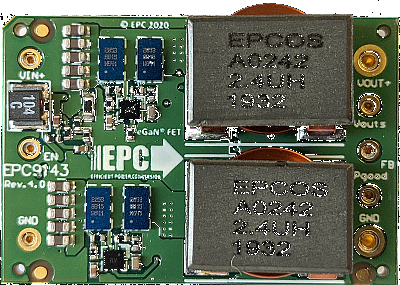
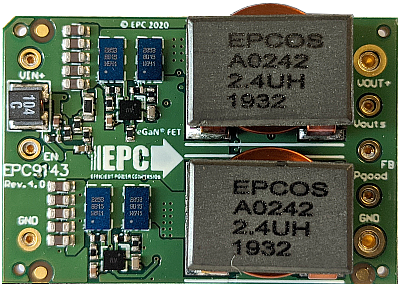
Updated readme file with link to Github Pages online documentation, added and optimized images used

diff --git a/README.md b/README.md
@@ -23,14 +23,14 @@
 ## Summary
 This code example demonstrates a closed loop voltage mode control implementation for dsPIC33CK. It has specifically been developed for the EPC9143 Rev4.0 1/16 brick converter.
 
-The board starts up the buck converter automatically when power is applied to the board, providing a regulated output voltage of 12 V at the output of the converter. The startup procedure is controlled and executed by the power controller state machine (PWRLIB_BUCK) and includes an configurable startup procedure with power-on delay, ramp up period and power good delay before dropping into constant regulation mode.
-An additional fault handler (FUNLIB_FAULT_HANDLER) shuts down the power supply if the input voltage is outside the defined range of 18V to 72.5V (UVLO/OVLO) or if the output voltage is more than 0.5V out of regulation for more than 10 milliseconds.
+The board starts up the buck converter automatically when power is applied to the board, providing a regulated output voltage of 12 V at the output of the converter. The startup procedure is controlled and executed by the power controller state machine and includes an configurable startup procedure with power-on delay, ramp up period and power good delay before dropping into constant regulation mode.
+An additional fault handler routine continuously monitors incoming ADC data and peripheral status bits and shuts down the power supply if the input voltage is outside the defined maximum range of 16.5 V to 62.5 V (UVLO/OVLO) or if the output voltage is more than 0.5 V out of regulation for more than 10 milliseconds.
 
 A single, high-speed type IV (4P4Z) voltage mode controller with enforced PWM steering is used to automatically create balanced phase currents in both phases of this interleaved converter. An underlying current balancing scheme compensates component tolerances and deviations over temperature. A built-in adaptive gain control algorithm stabilizes gain variations of the voltage loop controller during input- and output voltage transients, stabilizing cross-over frequency and output impedance, supporting control bandwidths of 25 kHz, for improved transient response, helping to minimize power distribution network (PDN) decoupling capacity.
 
 #### Product Features:
   - Input Voltage: 18 V to 61 V
-  - Output Voltage: 12 V DC (programmable from 5 V to 15.0 V)
+  - Output Voltage: 5 ... 15 V DC (12 V default setting)
   - Switching Frequency: 500 kHz
   - Control Frequency: 500 kHz
   - Cross-Over Frequency: ~25 kHz (depends on VIN and if AGC is on/off)
@@ -38,14 +38,24 @@ A single, high-speed type IV (4P4Z) voltage mode controller with enforced PWM st
   - Gain Margin: ~ 12 dB
 
 ## Related Documentation
+##### Firmware Documentation
+  - [EPC9143 Online Firmware Documentation](https://microchip-pic-avr-examples.github.io/epc9143-power-advanced-voltage-mode-control)
+
+##### Firmware Documentation
   - [EPC9143 300W 1/16th brick Power Module Reference Design Product Website](https://www.microchip.com/DevelopmentTools/ProductDetails/PartNO/EPC9143)
+  - [EPC9143 Reference Design Quick Start Guide (QSG)](https://epc-co.com/epc/documents/guides/EPC9143_qsg.pdf)
+  - [EPC9143 Reference Design Schematics](https://epc-co.com/epc/documents/schematics/EPC9143_Schematic.pdf)
+  - [EPC9531 Test Fixture Quick Start Guide (QSG)](https://epc-co.com/epc/documents/guides/EPC9531_qsg.pdf)
+  - [EPC9531 Test Fixture Schematics](https://epc-co.com/epc/documents/schematics/EPC9531_Schematic.pdf)
 
 ## Software Used 
   - [MPLAB® X IDE v5.40](https://www.microchip.com/mplabx-ide-windows-installer)
   - [MPLAB® XC16 Compiler v1.50](https://www.microchip.com/mplabxc16windows)
-  - [DCLD - Digital Control Library Designer v0.9.12.642](https://areiter128.github.io/DCLD/)
+  - [PowerSmart&trade; - Digital Control Library Designer, v0.9.12.642 (Pre-Release Version)](https://areiter128.github.io/DCLD/)
 
 ## Hardware Used
+The EPC9143 1/16th brick power module is best tested when plugged into EPC9531 test fixture. This test fixture also provides all required interfaces to program and debug the dsPIC33CK32MP102 DSC as well as test points and banana jack connectors for easy and safe handling of the kit during bench tests. The EPC9531 QSG provides detailed operating procedure instructions.
+
   - EPC9143: EPC9143 16th Brick Non-Isolated Step Down Converter, Revision 4.0
   - EPC9531: EPC9531 test fixture for EPC9143 16th brick reference design
 
@@ -58,21 +68,39 @@ A single, high-speed type IV (4P4Z) voltage mode controller with enforced PWM st
 </p>
 
 ## Device Support:
-The following Microchip devices are used on the EPC9143 reference design:
+Microchip devices used in this reference design:
   - [dsPIC33CK32MP102](https://www.microchip.com/dsPIC33CK32MP102)
   - [MCP6C02 Shunt Amplifier](https://www.microchip.com/MCP6C02)
 
+EPC devices used in this reference design
+  - [EPC2053: 100 V, 246 A Enhancement-Mode GaN Power Transistor](https://epc-co.com/epc/Products/eGaNFETsandICs/EPC2053.aspx)
+
 ## Setup
-The EPC9143 1/16th brick module is best tested plugged into EPC9531 test fixture. The EPC9531 QSG provides detailed operating procedure instructions. 
+The board comes programmed and ready to be used when unpacked. No reprogramming of the target device is required to operate the board unless features or settings such as the nominal output voltage or start-up timing need to be modified. 
 
-Available documents provided by EPC:
+<p>
+  <center>
+    <a href="https://www.microchip.com/EPC9143" rel="nofollow">
+      <img src="images/9531_9143_setup.png" alt="EPC9531 Test Fixture Connections - Top View" width="700">
+	</a>
+  <br>
+  EPC9531 Test Fixture Connections - Top View
+  </center>
+</p>
 
-  - [EPC9143 Quick Start Guide (QSG)](https://epc-co.com/epc/documents/guides/EPC9143_qsg.pdf)
-  - [EPC9143 Schematics](https://epc-co.com/epc/documents/schematics/EPC9143_Schematic.pdf)
-  - [EPC9531 Quick Start Guide (QSG)](https://epc-co.com/epc/documents/guides/EPC9531_qsg.pdf)
-  - [EPC9531 Test Fixture Schematics](https://epc-co.com/epc/documents/schematics/EPC9531_Schematic.pdf)
+<p>
+  <center>
+    <a href="https://www.microchip.com/EPC9143" rel="nofollow">
+      <img src="images/9531_bottom.png" alt="EPC9531 Test Fixture Connections - Bottom View" width="620">
+	</a>
+  <br>
+  EPC9531 Test Fixture Connections - Bottom View
+  </center>
+</p>
 
-The bard comes programmed and ready to be used when unpacked. No reprogramming of the target device is required to operate the board unless features or settings such as the nominal output voltage or start-up timing need to be modified in which case the Microchip dsPIC33CK controller can be re-programmed using the in-circuit serial programming port (ICSP) available on the RJ-11 programming interface as well as the 5-pin header provided by the EPC9531 test fixture. These interfaces support all of Microchip’s in-circuit programmers/debuggers, such as MPLAB® ICD4, MPLAB® REAL ICE or MPLAB® PICkit4 and previous derivatives. See [EPC9531 Quick Start Guide](https://epc-co.com/epc/documents/guides/EPC9531_qsg.pdf) for details.
+
+In case firmware based features need to be changed, the Microchip dsPIC33CK controller can be re-programmed using the in-circuit serial programming port (ICSP) available on the RJ-11 programming interface as well as the 5-pin header provided by the EPC9531 test fixture. These interfaces support all of Microchip’s in-circuit programmers/debuggers, such as MPLAB® ICD4, MPLAB® REAL ICE or MPLAB® PICkit4 and previous derivatives. See [EPC9531 Quick Start Guide](https://epc-co.com/epc/documents/guides/EPC9531_qsg.pdf) for details.
+
 
 ## Operation
 The converter is starting up automatically when more than 10.5 V DC are applied across the input terminals of the EPC9531 test fixture. It is not recommended to operate the EPC9143 reference design without proper decoupling capacitance at either input or output. The EPC9531 test fixture provides the best test environment for the converter. Please read the [EPC9531 Quick Start Guide](https://epc-co.com/epc/documents/guides/EPC9531_qsg.pdf) to get detailed information about the requirements for setup and operation of this reference design.
@@ -119,16 +147,15 @@ This control loop can be turned on/off by using the ENABLE bit in the STATUS wor
 
 ##### 3) Digital Controller Design
 
-The control loop source code is configured and generated by using the 
-Digital Control Loop Designer (DCLD). 
+The control loop source code is configured and generated by the PowerSmart&trade; - Digital Control Library Designer (DCLD) software.
 
-This additional design software is available for download by following this link:
+This additional design software is available for download on Github Pages:
 
-[https://areiter128.github.io/DCLD](https://areiter128.github.io/DCLD)
+  - [PowerSmart&trade; Digital Control Library Designer Github Page](https://areiter128.github.io/DCLD)
 
-Once installed, the controller configuration can be modified. The most recent configuration can be opened from within the MPLAB X® IDE by right-clicking on the file 'DPSK3_VMC.dcld' located in the Important Files folder of the Project Manager. When right-clicked, select 'Open In System' to open the configuration in DCLD. 
+Once installed, the controller configuration can be modified. The most recent configuration can be opened from within the MPLAB X® IDE by right-clicking on the file 'DPSK3_VMC.dcld' located in the Important Files folder of the Project Manager. When right-clicked, select 'Open In System' to open the configuration in PowerSmart&trade; DCLD. 
 
-Please refer to the user guide of DCLD which is included in the software and can be opened from the help menu of the application.
+Please refer to the user guide of PowerSmart&trade; DCLD which is included in the software and can be opened from the help menu of the application.
 
 ##### 4) User Control
 
@@ -171,7 +198,7 @@ This code examples includes an alternative, proportional control loop which is c
 ###### PLEASE NOTE:
 PROPORTIONAL CONTROLLERS ARE BY DEFAULT UNSTABLE AND NOT SUITED TO REGULATE THE OUTPUT OF A POWER SUPPLY UNDER NORMAL OPERATING CONDITIONS. DURING A PLANT MEASUREMENT IT IS MANDATORY THAT INPUT VOLTAGE AND LOAD REMAIN STABLE AND DO NOT CHANGE. 
 
-FOR MORE INFORMATION ABOUT HOW TO CONDUCT A POWER PLANT MEASUREMENT, PLEASE READ THE SECTIONS IN THE DCLD USER GUIDE.
+FOR MORE INFORMATION ABOUT HOW TO CONDUCT A POWER PLANT MEASUREMENT, PLEASE READ THE SECTIONS IN THE PowerSmart&trade; DCLD USER GUIDE.
 
 _________________________________________________
 (c) 2020, Microchip Technology Inc.
